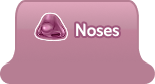
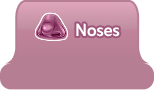
Edit

diff --git a/dollidemo.html b/dollidemo.html
@@ -9,7 +9,7 @@
 <meta property="og:image" content="https://alexsportal.github.io/dollidemo/DressupGame_Assets/Logos/Dolli_AppLogo3.png">
 <meta http-equiv="content-type" content="text/html; charset=utf-8">
 <meta http-equiv="Cache-Control" content="no-cache">
-<meta name="viewport" content="width=device-width, initial-scale=1,">
+<meta name="viewport" content="width=device-width" initial-scale=1,>
 <link rel="icon" type="image/x-icon" href="DressupGame_Assets/Logos/Dolli_AppLogo3.png">
 <link rel="stylesheet" href="dollistylesheet.css">
 <link rel="stylesheet" href="infoboxstylesheet.css">
@@ -1618,10 +1618,10 @@
   <div class="block"></div>
   </div>
   <div style="position: relative; width:auto;margin:auto;text-align: center;margin-bottom:0;">
-  <p style="font-family: Zain; color: #ffffff; font-size: 14px; margin: 2px 0; font-style: italic;">Hey, Dolli! <br> Due to the amount of images, this may load slowly on your first visit.</p>
+  <p class="loadingtext" style="font-family: Zain; color: #ffffff; font-size: 14px; margin: 2px 0; font-style: italic;">Hey, Dolli! <br> Due to the amount of images, this may load slowly on your first visit.</p>
   </div>
 
- <span style="font-size:13px;font-family: Zain;">© 2026 Alexsandria Manuel</span>
+ <span class="loadingtext" style="font-size:14px;font-family: Zain;">© 2026 Alexsandria Manuel</span>
 </div>
 
 

diff --git a/dollistylesheet.css b/dollistylesheet.css
@@ -6,7 +6,7 @@ body{
     transition:ease-out .3s;
     width:auto;
     height:100dvh;
-    overflow-y: hidden;
+    overflow-y: auto;
     overflow-x:hidden;
     background-image: url(DressupGame_Assets/Scenes/background1.webp);
     background-size: 2061px;
@@ -15,6 +15,8 @@ body{
     user-select: none;
 
 }
+
+
 
 @font-face {
     font-family: zainreg;
@@ -1574,3 +1576,53 @@ span{
     background-position-y: 614px;
 }
 }
+
+/*
+
+@media screen and (min-width:768px){
+.bottombox {
+    width: 390px;
+    margin: auto;
+    position: relative;
+    transform: scale(1.3);
+    top: 180px;
+    overflow-y: auto;
+}
+#border{
+    transform: scale(1.3);
+    top: 80px;
+}
+.loadingtext{
+    font-size: larger;
+}
+}
+
+@media screen and (min-width:820px){
+.bottombox {
+        width: 390px;
+        margin: auto;
+        position: relative;
+        transform: scale(1.5);
+        top: 292px;
+        overflow-y: auto;
+}
+#border{
+        transform: scale(1.5);
+        top: 125px;
+}
+}
+
+@media screen and (max-width:1024px) and (max-height:1366px){
+.bottombox {
+        width: 390px;
+        margin: auto;
+        position: relative;
+        transform: scale(1.8);
+        top: 463px;
+        overflow-y: auto;
+}
+#border{
+        transform: scale(1.8);
+        top: 196px;
+}
+}*/
